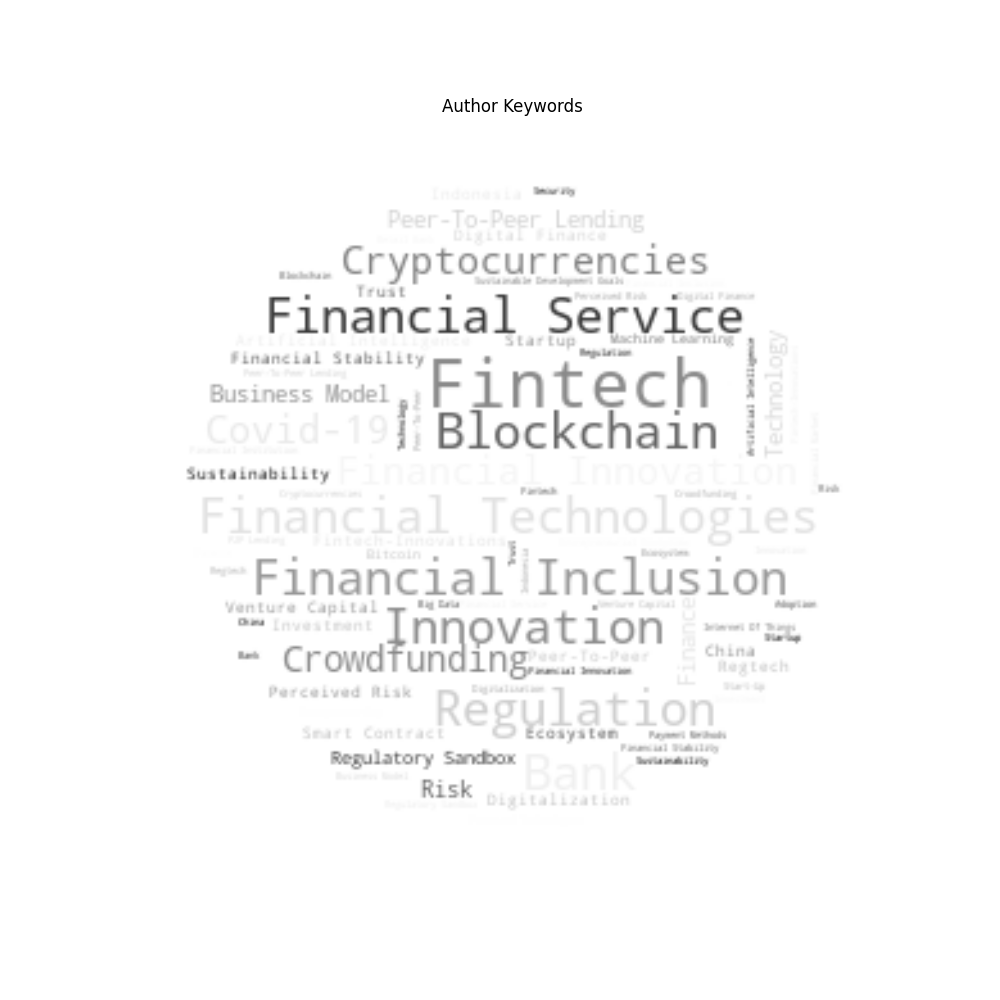
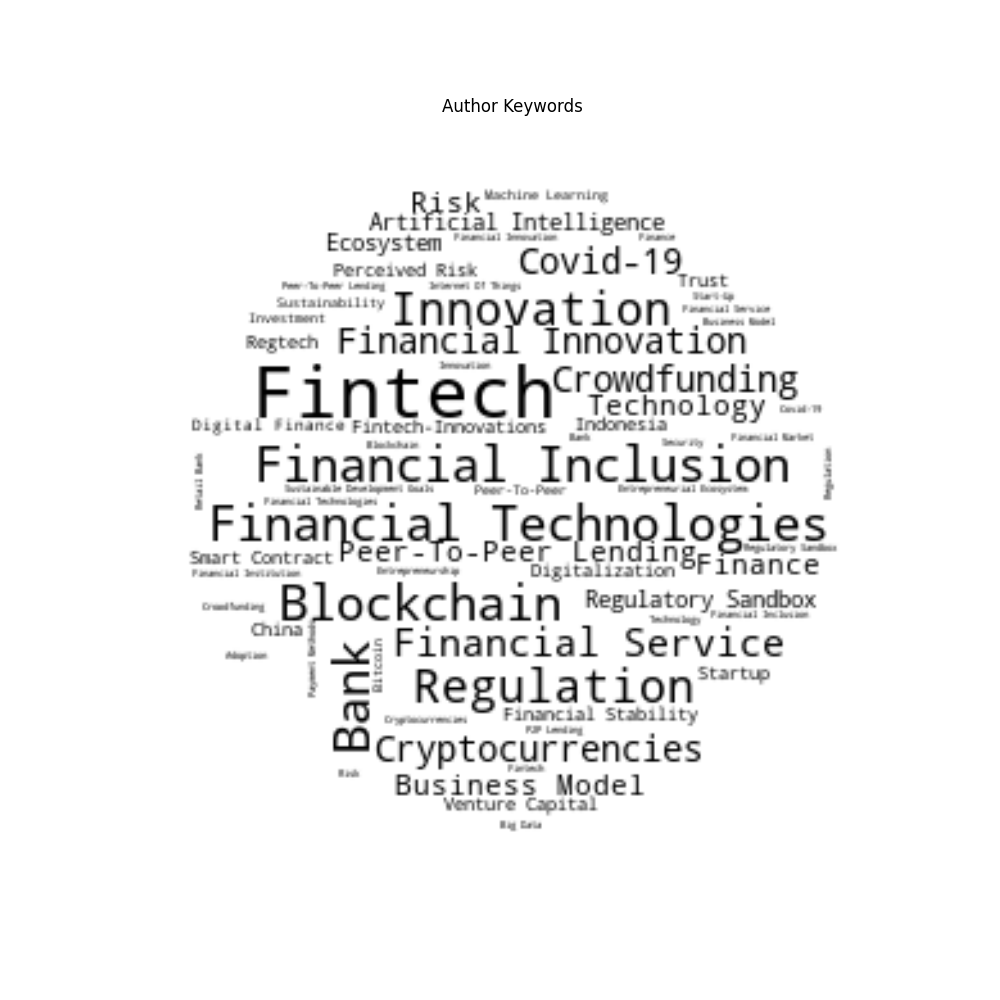
fix color wordcloud

Changed region(s): [[0.186, 0.186, 0.837, 0.837], [0.217, 0.651, 0.248, 0.682]]

diff --git a/techminer2/word_cloud_py.py b/techminer2/word_cloud_py.py
@@ -5,6 +5,10 @@ import numpy as np
 from wordcloud import WordCloud
 
 
+def _recolor(word, **kwargs):
+    return "black"
+
+
 def word_cloud_py(
     dataframe,
     metric,
@@ -20,6 +24,7 @@ def word_cloud_py(
 
     text = {key: value for key, value in zip(dataframe[column], dataframe[metric])}
     wc.generate_from_frequencies(text)
+    wc.recolor(color_func=_recolor)
 
     fig = plt.Figure(figsize=figsize)
     ax = fig.subplots()
